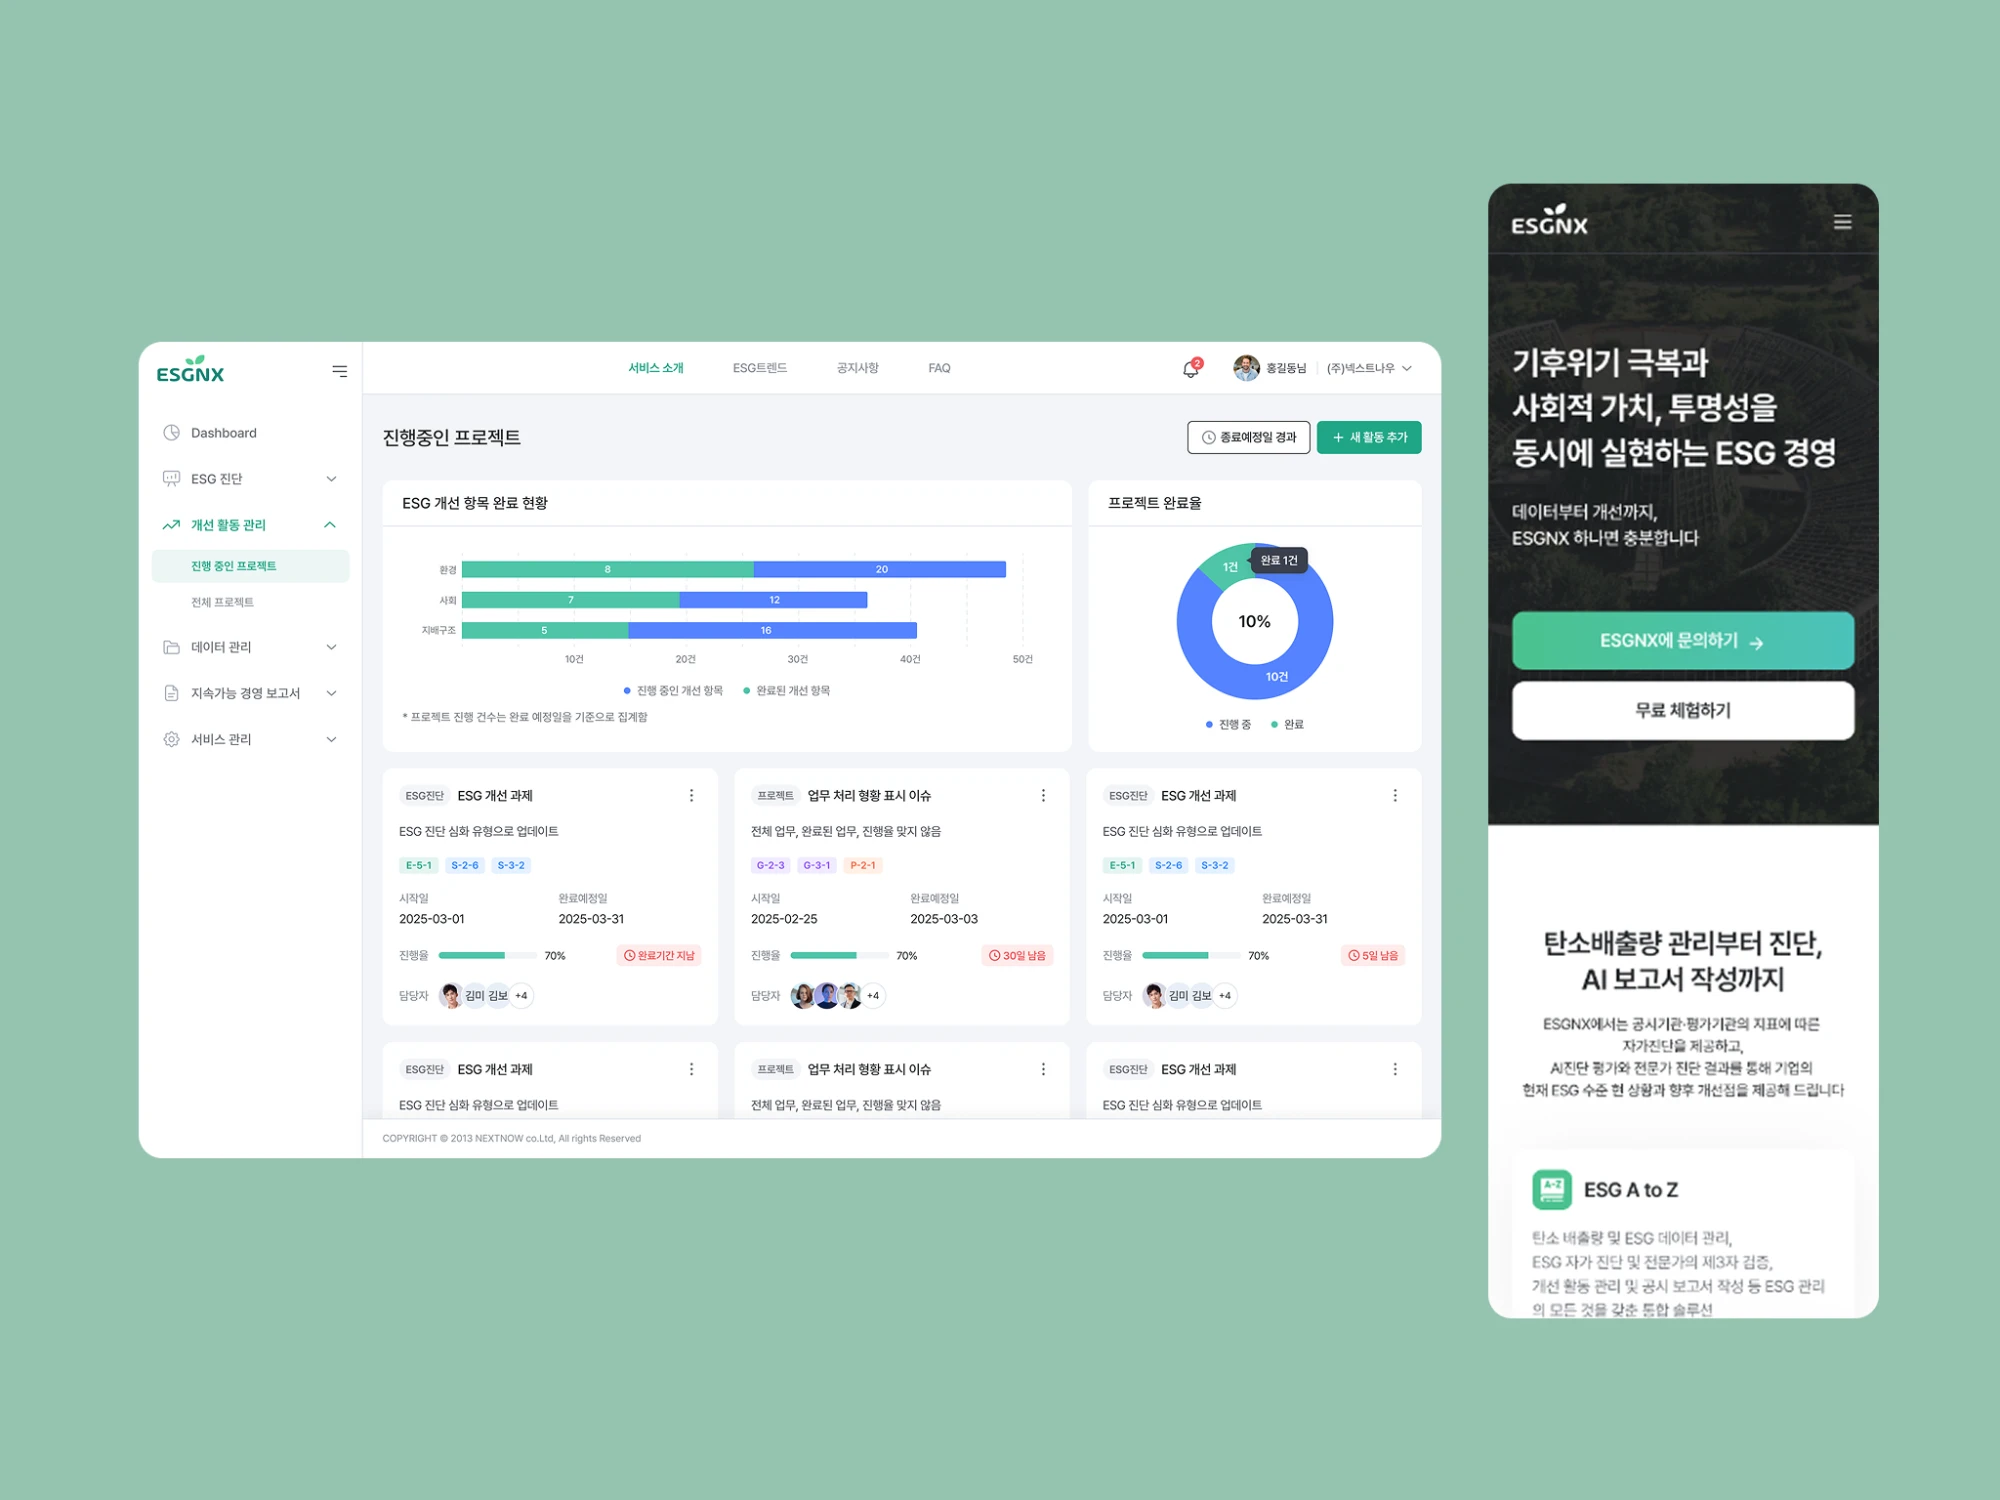
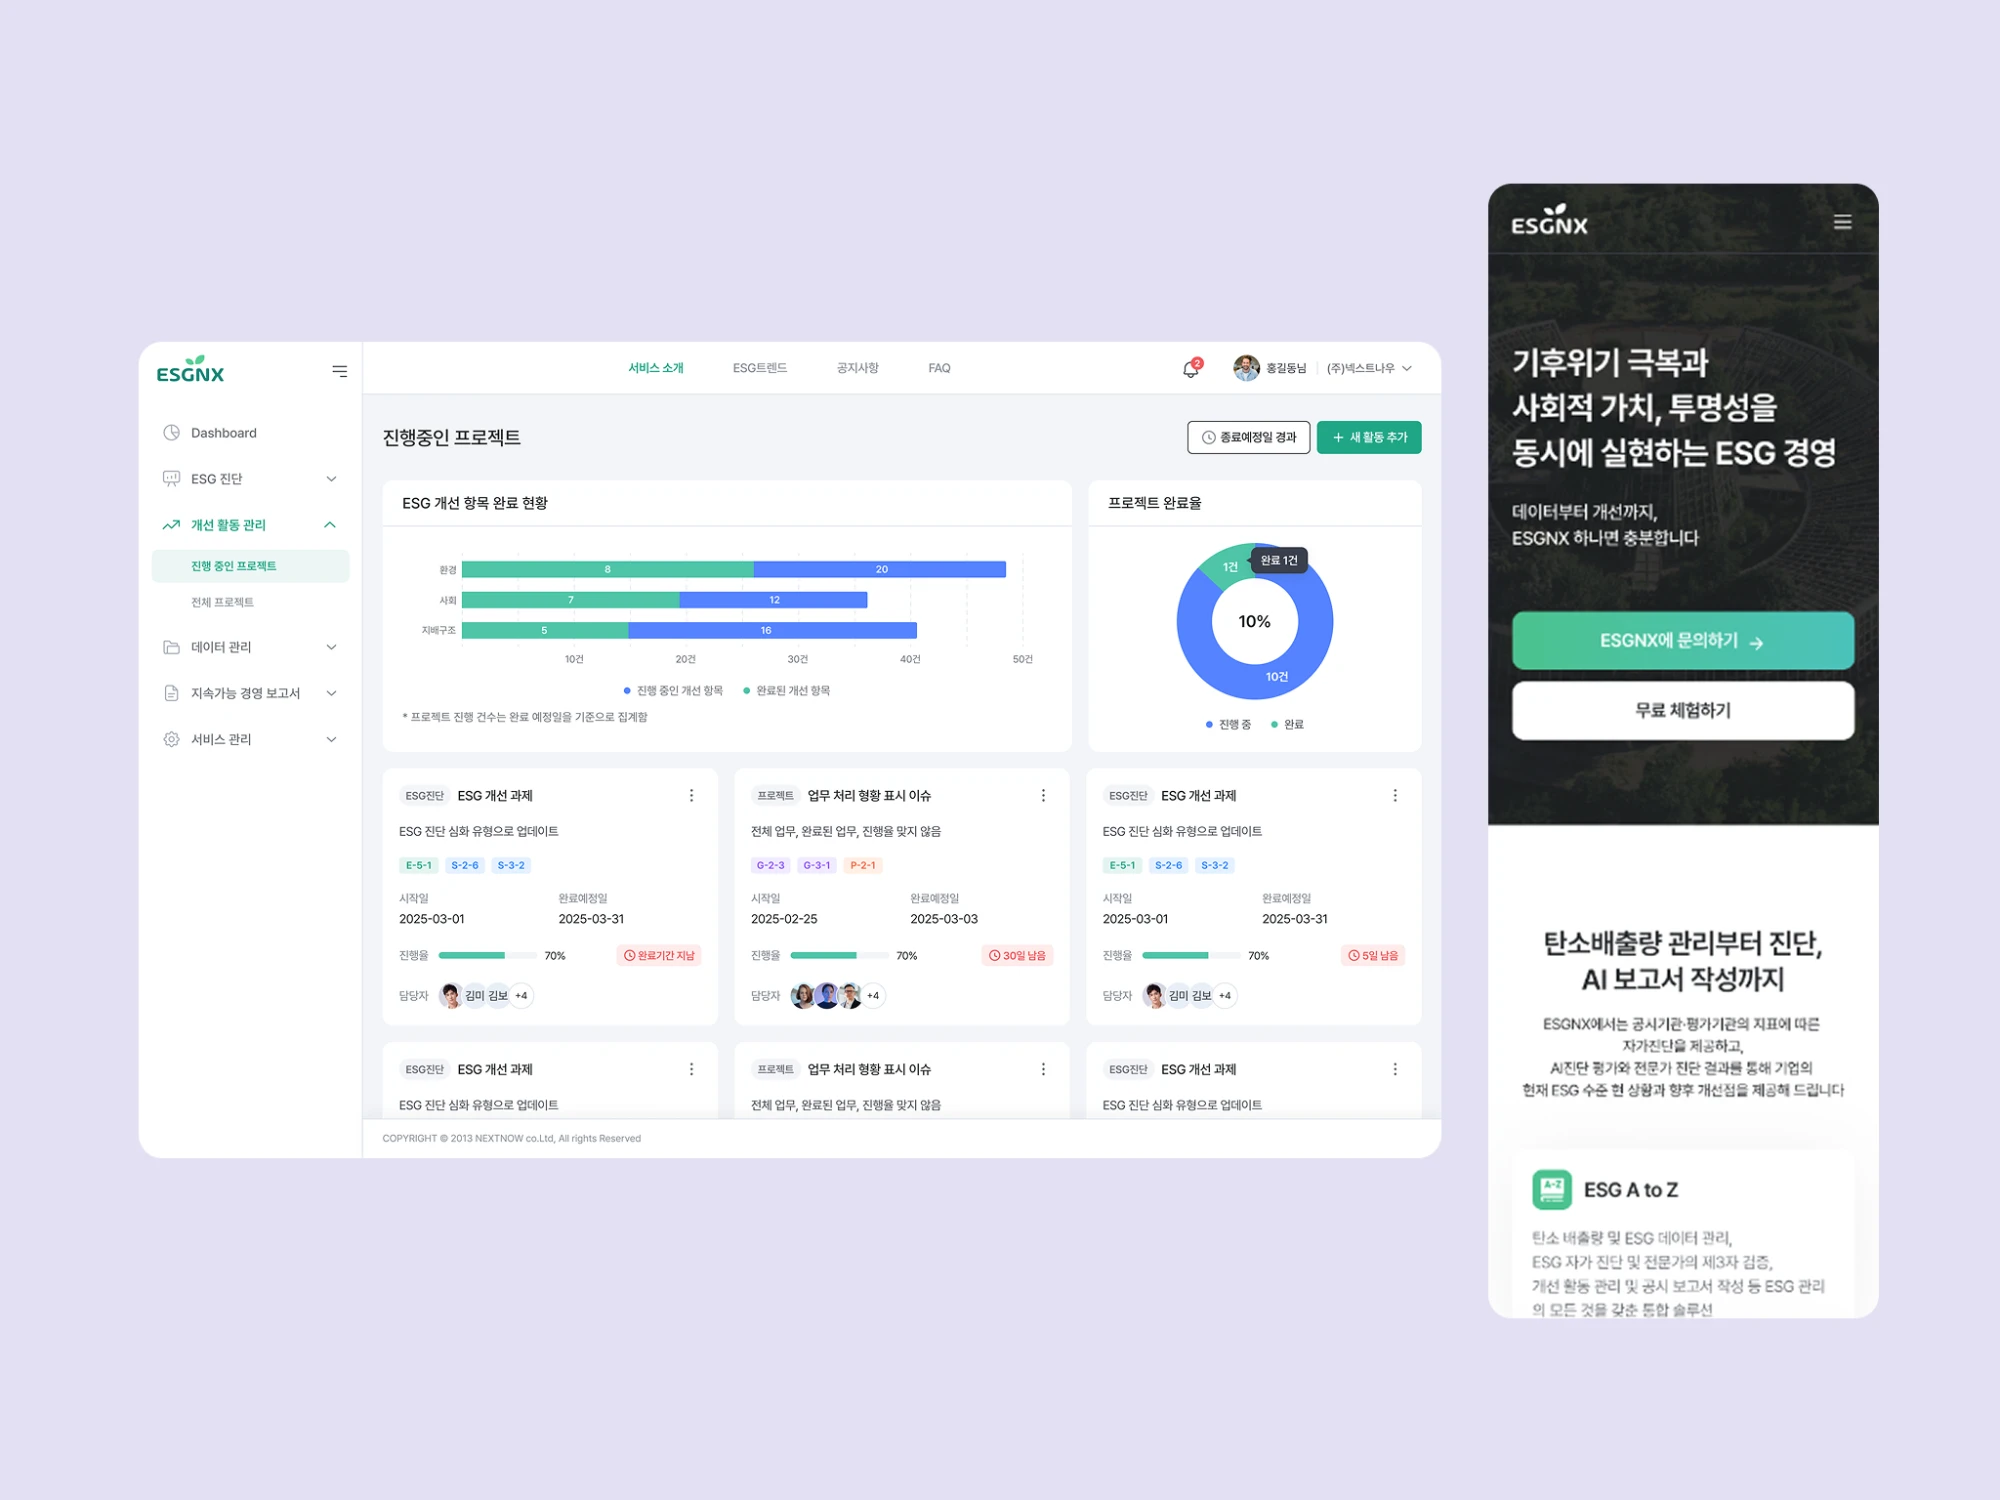
하나페이 프로젝트 등록 및 ESGNX·Salarying 썸네일 교체
- Project Nine 자리에 하나페이 전자고지 및 전자지갑 등록 (2022 - 2023, App, UI/UX, Project info, Details)
- 하나페이 썸네일: 이미지 전체가 보이도록 배치하고 남는 영역은 배경색(#2d9078)으로 확장
- ESGNX 썸네일 교체, 카드 배경색을 새 이미지에 맞춰 #e3e0f3으로 변경
- Salarying 리스트 썸네일 교체 (상세 팝업 이미지는 유지)

diff --git a/index.html b/index.html
@@ -70,8 +70,8 @@
             <img class="work-card__thumb" src="assets/golf-team-thumb.webp" alt="" />
             <span class="work-card__dim"><span class="work-card__title">Golf Team</span></span>
           </div>
-          <div class="work-card placeholder" data-category="app" data-year="2024" data-tags="App" style="height: 280px">
-            <span class="work-card__dim"><span class="work-card__title">Project Nine</span></span>
+          <div class="work-card work-card--hanapay-thumb" data-category="app" data-year="2022 - 2023" data-tags="App, UI/UX" data-media='["assets/hanapay-thumb.webp"]' data-description="하나Pay 앱 내 서울시 전자고지 및 행정안전부 전자지갑 서비스 추가를 위한 모바일 UI 디자인" data-details='[{"role":"Design","name":"Jiyeon Park(100%)"},{"role":"Tools","name":"Figma, Illustrator"}]' style="height: 280px">
+            <span class="work-card__dim"><span class="work-card__title">하나페이 전자고지 및 전자지갑</span></span>
           </div>
         </div>
         <div class="work-col">
@@ -97,7 +97,7 @@
             </div>
             <span class="work-card__dim"><span class="work-card__title">Smart Caddie</span></span>
           </div>
-          <div class="work-card work-card--fill work-card--salarying-thumb" data-category="web" data-year="2022" data-tags="Web, UI/UX" data-media='["assets/salarying-thumb.webp","assets/salarying-detail-01.webp","assets/salarying-detail-02.webp","assets/salarying-card.png","assets/salarying-detail-04.webp"]' data-description="클라우드 기반 인사노무 통합관리 SaaS 솔루션 Salarying의 사용자·관리자 웹 UI 디자인.&#10;인사관리 업무 특성에 맞춘 정보 구조 및 주요 화면 설계" data-details='[{"role":"Design","name":"Jiyeon Park (100%)"},{"role":"Tools","name":"Photoshop, Illustrator"}]' style="height: 300px; background-image: url('assets/salarying-card.png')">
+          <div class="work-card work-card--fill work-card--salarying-thumb" data-category="web" data-year="2022" data-tags="Web, UI/UX" data-media='["assets/salarying-thumb.webp","assets/salarying-detail-01.webp","assets/salarying-detail-02.webp","assets/salarying-card.png","assets/salarying-detail-04.webp"]' data-description="클라우드 기반 인사노무 통합관리 SaaS 솔루션 Salarying의 사용자·관리자 웹 UI 디자인.&#10;인사관리 업무 특성에 맞춘 정보 구조 및 주요 화면 설계" data-details='[{"role":"Design","name":"Jiyeon Park (100%)"},{"role":"Tools","name":"Photoshop, Illustrator"}]' style="height: 300px; background-image: url('assets/salarying-card.webp')">
             <span class="work-card__dim"><span class="work-card__title">인사노무 통합관리 솔루션, Salarying</span></span>
           </div>
         </div>

diff --git a/styles/style.css b/styles/style.css
@@ -322,7 +322,7 @@ a {
 /* ESGNX: show the whole thumbnail and extend its flat backdrop colour
    (sampled from the image edges) into whatever space is left over. */
 .work-card--esgnx-thumb {
-  background-color: #95c4af;
+  background-color: #e3e0f3;
   background-size: contain;
   background-position: center;
   /* Stay on a compositor layer so the image isn't re-snapped to whole
@@ -815,6 +815,14 @@ a {
 
 .work-card.placeholder {
   cursor: default;
+}
+
+/* Hana Pay: whole logo image visible; its flat green backdrop (#2d9078,
+   sampled from the image edges) extends into the rest of the card. Kept on
+   a compositor layer so the image isn't re-snapped on hover end. */
+.work-card--hanapay-thumb {
+  background: #2d9078 url("../assets/hanapay-thumb.webp") center / contain no-repeat;
+  will-change: transform;
 }
 
 /* Healthi Buddy: the whole logo image stays visible and its flat orange
